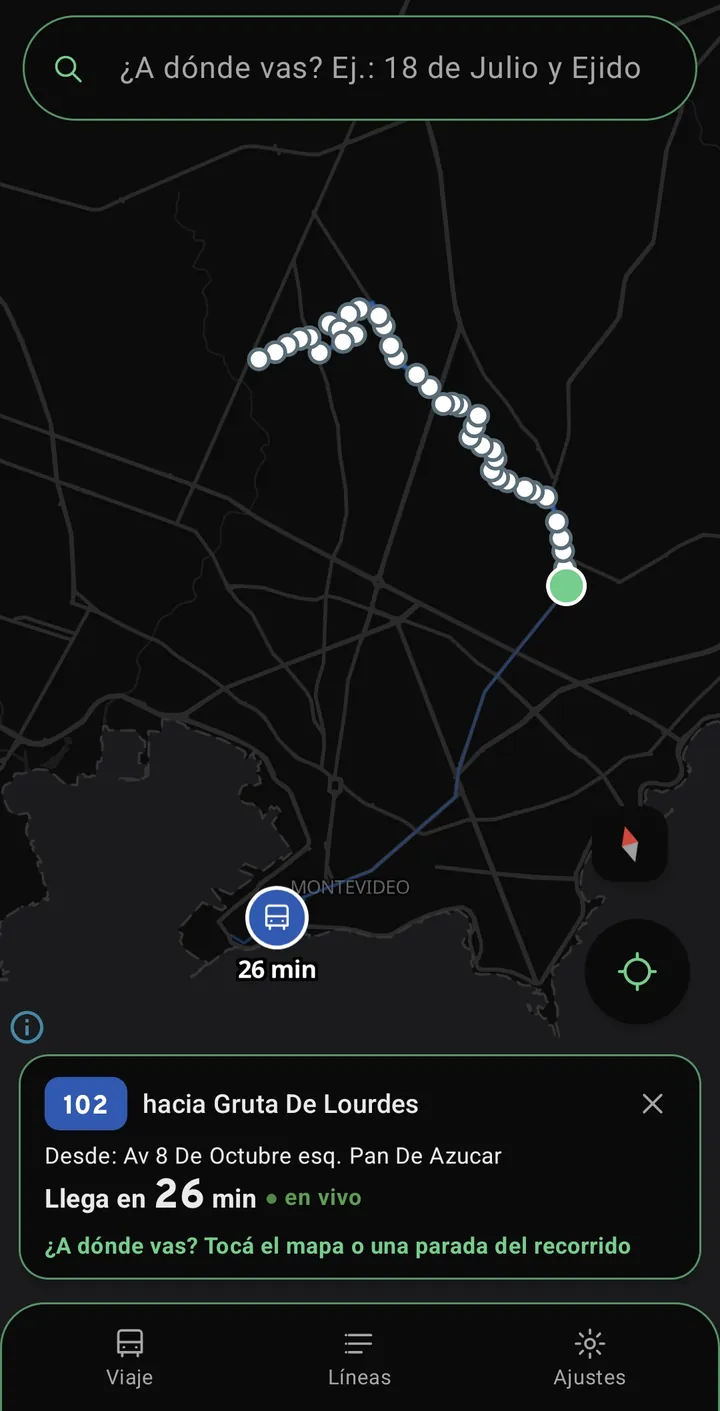
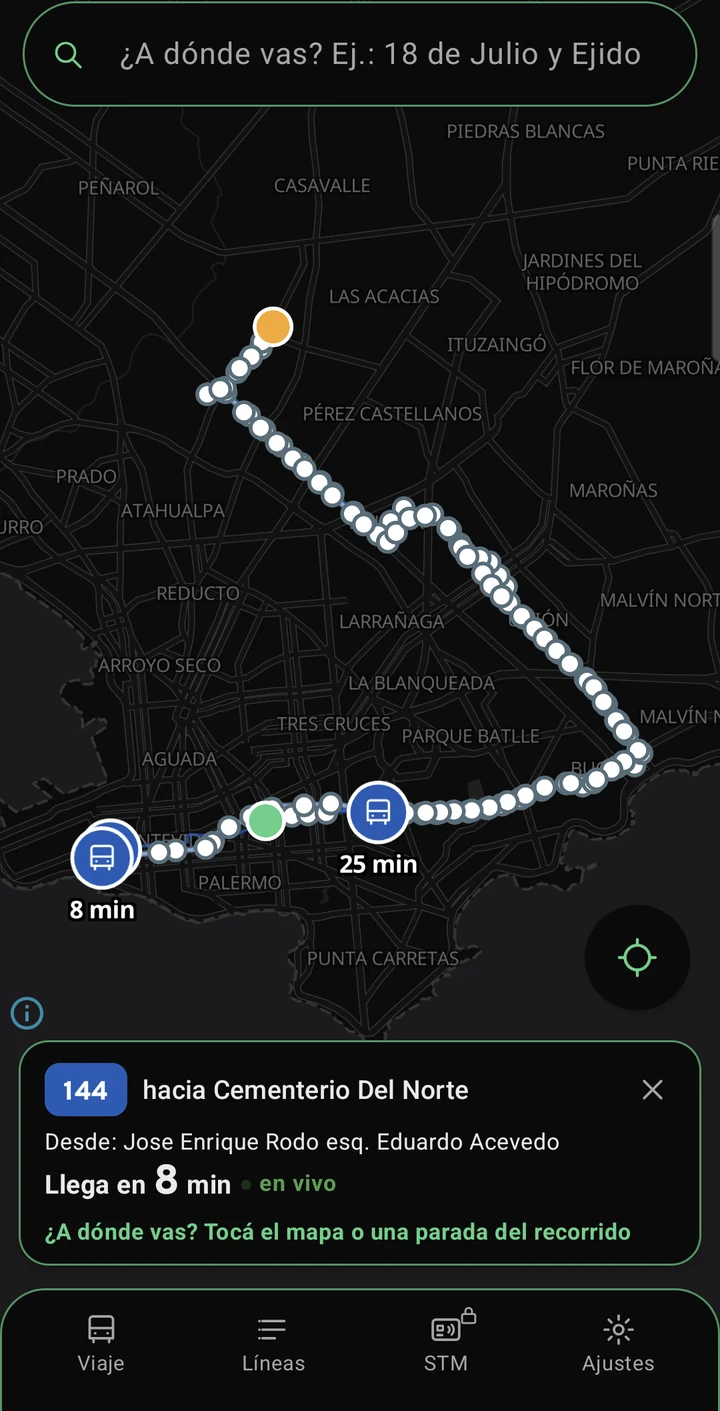
Capturas nuevas en modo oscuro con la app actual (y la notificación de ejemplo de la portada a juego)

diff --git a/config.js b/config.js
@@ -62,13 +62,13 @@ window.OMNIUY = {
   /* ---------- CAPTURAS ----------
      Subí tus imágenes a la carpeta img/capturas/ con estos nombres.
      Mientras no existan, se muestra un recuadro de reemplazo.        */
-  capturaPortada: "img/capturas/portada.webp",  // La que va dentro del celular de arriba
+  capturaPortada: "img/capturas/portada.webp?v=2",  // La que va dentro del celular de arriba
   capturas: [
-    { archivo: "img/capturas/captura-1.webp", titulo: "Elegí cómo ir" },
-    { archivo: "img/capturas/captura-2.webp", titulo: "Ómnibus en vivo" },
-    { archivo: "img/capturas/captura-3.webp", titulo: "Planificá tu viaje" },
-    { archivo: "img/capturas/captura-4.webp", titulo: "Todo el recorrido" },
-    { archivo: "img/capturas/captura-5.webp", titulo: "Todas las líneas" },
+    { archivo: "img/capturas/captura-1.webp?v=2", titulo: "Elegí cómo ir" },
+    { archivo: "img/capturas/captura-2.webp?v=2", titulo: "Ómnibus en vivo" },
+    { archivo: "img/capturas/captura-3.webp?v=2", titulo: "Planificá tu viaje" },
+    { archivo: "img/capturas/captura-4.webp?v=2", titulo: "Todo el recorrido" },
+    { archivo: "img/capturas/captura-5.webp?v=2", titulo: "Todas las líneas" },
   ],
 
   /* ---------- TEXTOS DE LA PÁGINA ---------- */
@@ -82,8 +82,8 @@ window.OMNIUY = {
       nota: "Gratis · Sin anuncios · Solo Android",
       enlaceAyuda: "¿Cómo se instala?",
       // Notificación de ejemplo que flota junto al celular
-      notificacionTitulo: "103 · llega en 20 min",
-      notificacionTexto: "faltan 39 paradas · llegás ≈ 4:58",
+      notificacionTitulo: "103 · llega en 14 min",
+      notificacionTexto: "faltan 8 paradas · llegás ≈ 15:01",
     },
 
     funciones: {
